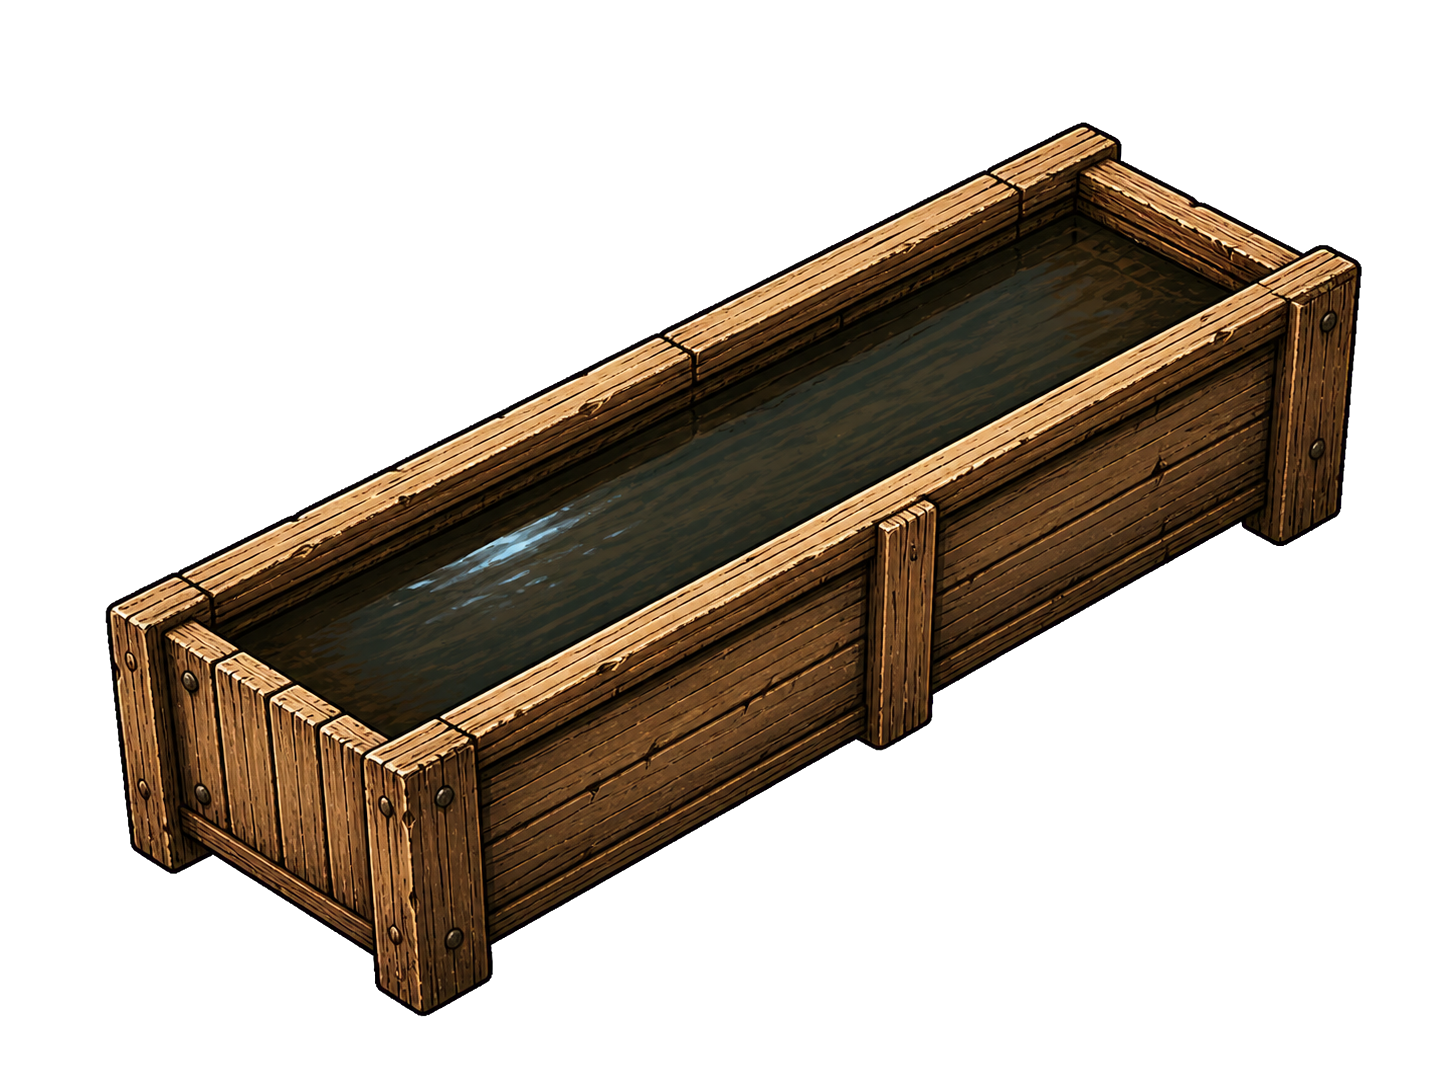
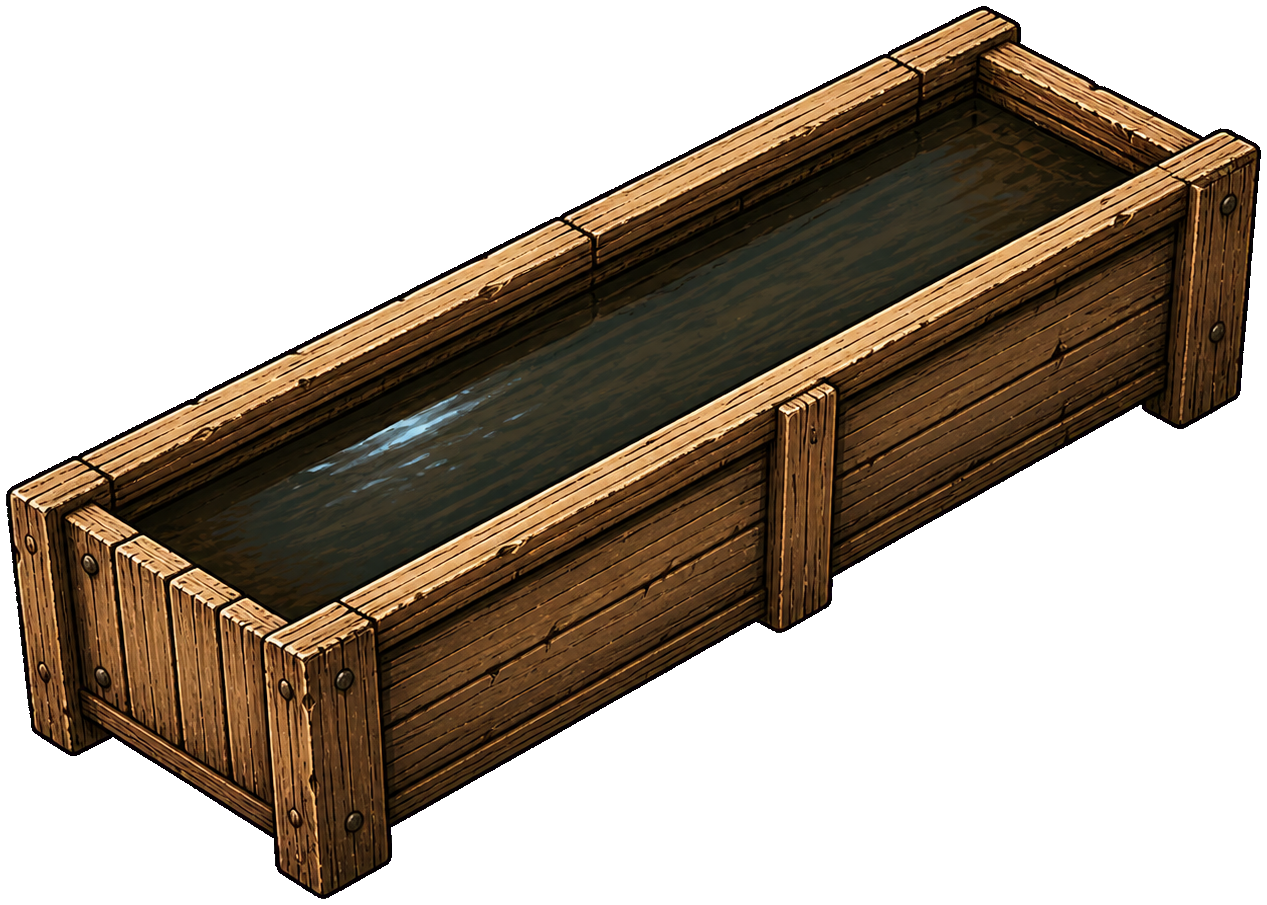
ART-08 trough + ART-09 post + ART-10 wagon — Tier-1 complete
Final three town-clutter props wired into ISO_PROP_ART: trough
(hScale 2.8, long low box), hitching post (7.0, cross-rail + rope),
broken wagon (3.6). Wagon-circle ambush now reads as six torn-canvas
covered wagons ringing the strongbox. Cleaned in place (3.1k/4.2k/
8.2k halo px). v=29.

Tier 1 DONE — all 10 prop tickets (5 desert + 5 town) delivered and
rendering; every procedural scenery/prop shape retired.

diff --git a/index.html b/index.html
@@ -59,21 +59,21 @@
 
   <!-- ?v= is a cache-buster: bump it whenever game/*.js changes so browsers
        (file:// and localhost alike) can't serve a stale build. -->
-  <script src="game/config.js?v=28"></script>
-  <script src="game/utils.js?v=28"></script>
-  <script src="game/input.js?v=28"></script>
-  <script src="game/audio.js?v=28"></script>
-  <script src="game/camera.js?v=28"></script>
-  <script src="game/world.js?v=28"></script>
-  <script src="game/assets.js?v=28"></script>
-  <script src="game/chris-manifest.js?v=28"></script>
-  <script src="game/horse-manifest.js?v=28"></script>
-  <script src="game/sprites.js?v=28"></script>
-  <script src="game/entities.js?v=28"></script>
-  <script src="game/systems.js?v=28"></script>
-  <script src="game/game.js?v=28"></script>
-  <script src="game/render.js?v=28"></script>
-  <script src="game/main.js?v=28"></script>
+  <script src="game/config.js?v=29"></script>
+  <script src="game/utils.js?v=29"></script>
+  <script src="game/input.js?v=29"></script>
+  <script src="game/audio.js?v=29"></script>
+  <script src="game/camera.js?v=29"></script>
+  <script src="game/world.js?v=29"></script>
+  <script src="game/assets.js?v=29"></script>
+  <script src="game/chris-manifest.js?v=29"></script>
+  <script src="game/horse-manifest.js?v=29"></script>
+  <script src="game/sprites.js?v=29"></script>
+  <script src="game/entities.js?v=29"></script>
+  <script src="game/systems.js?v=29"></script>
+  <script src="game/game.js?v=29"></script>
+  <script src="game/render.js?v=29"></script>
+  <script src="game/main.js?v=29"></script>
 
 </body>
 </html>

diff --git a/game/sprites.js b/game/sprites.js
@@ -389,6 +389,9 @@ const ISO_PROP_ART = {
   // Town clutter (PROPS array, not SCENERY) — same draw path, keyed by type.
   barrel: [ { file: 'prop_barrel.png', hScale: 3.8 } ],   // upright whiskey barrel
   crate:  [ { file: 'prop_crate.png',  hScale: 3.2 } ],   // iso shipping crate
+  trough: [ { file: 'prop_trough.png', hScale: 2.8 } ],   // long low water trough
+  post:   [ { file: 'prop_post.png',   hScale: 7.0 } ],   // hitching post + rope
+  wagon:  [ { file: 'prop_wagon.png',  hScale: 3.6 } ],   // broken covered wagon
 };
 const IsoProps = {
   loaded: {},   // file -> HTMLImageElement

diff --git a/docs/ART_TICKETS.md b/docs/ART_TICKETS.md
@@ -66,17 +66,17 @@ already baked into each prompt below, no assembly needed)
 >
 > The object is a wooden SHIPPING CRATE — square slat-board box with corner brackets and a diagonal brace, sun-bleached planks. No markings or stencils (no text).
 
-### [ ] ART-08 — Water trough → `assets/iso/props/prop_trough.png`
+### [x] ART-08 — Water trough → `assets/iso/props/prop_trough.png`
 > Isometric video-game environment prop in the exact art style of the attached reference image (match its palette, ink outlines, and lighting). TRUE 2:1 isometric camera like Diablo. ONE single object, centered, filling most of the frame. Light from the south-west: left side warm and lit, right side in cool shadow. Hand-drawn 2D cartoon western, bold dark ink outlines, warm sepia palette of dusty browns and desert tones. BACKGROUND: fully transparent; if not possible, flat solid pure-magenta #FF00FF — never white, no gradient. NO ground, dirt patch, base, or cast shadow under the object. NO text anywhere.
 >
 > The object is a long wooden WATER TROUGH — plank box with end boards, filled with still dark water catching one pale glint of sky. Aligned diagonally to match the isometric camera.
 
-### [ ] ART-09 — Hitching post → `assets/iso/props/prop_post.png`
+### [x] ART-09 — Hitching post → `assets/iso/props/prop_post.png`
 > Isometric video-game environment prop in the exact art style of the attached reference image (match its palette, ink outlines, and lighting). TRUE 2:1 isometric camera like Diablo. ONE single object, centered, filling most of the frame. Light from the south-west: left side warm and lit, right side in cool shadow. Hand-drawn 2D cartoon western, bold dark ink outlines, warm sepia palette of dusty browns and desert tones. BACKGROUND: fully transparent; if not possible, flat solid pure-magenta #FF00FF — never white, no gradient. NO ground, dirt patch, base, or cast shadow under the object. NO text anywhere.
 >
 > The object is a HITCHING POST — a short sturdy wooden post with a cross rail and a loop of worn rope hanging from it. Simple, reads at small sizes.
 
-### [ ] ART-10 — Broken wagon → `assets/iso/props/prop_wagon.png`
+### [x] ART-10 — Broken wagon → `assets/iso/props/prop_wagon.png`
 > Isometric video-game environment prop in the exact art style of the attached reference image (match its palette, ink outlines, and lighting). TRUE 2:1 isometric camera like Diablo. ONE single object, centered, filling most of the frame. Light from the south-west: left side warm and lit, right side in cool shadow. Hand-drawn 2D cartoon western, bold dark ink outlines, warm sepia palette of dusty browns and desert tones. BACKGROUND: fully transparent; if not possible, flat solid pure-magenta #FF00FF — never white, no gradient. NO ground, dirt patch, base, or cast shadow under the object. NO text anywhere.
 >
 > The object is an abandoned BROKEN COVERED WAGON — tilted on a shattered wheel, torn canvas cover flapping open over bent bows, weathered plank bed. Aligned diagonally to match the isometric camera.
